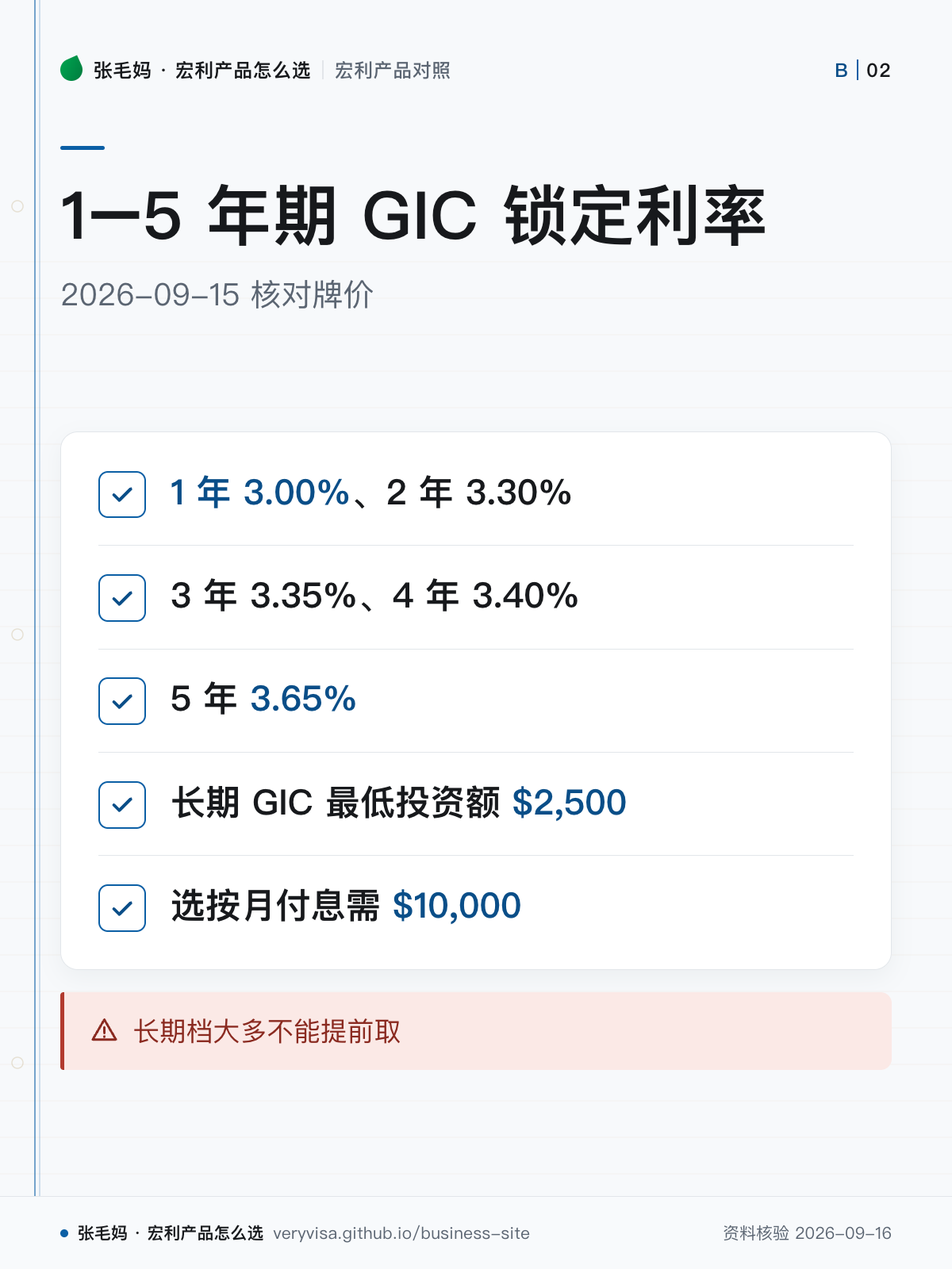
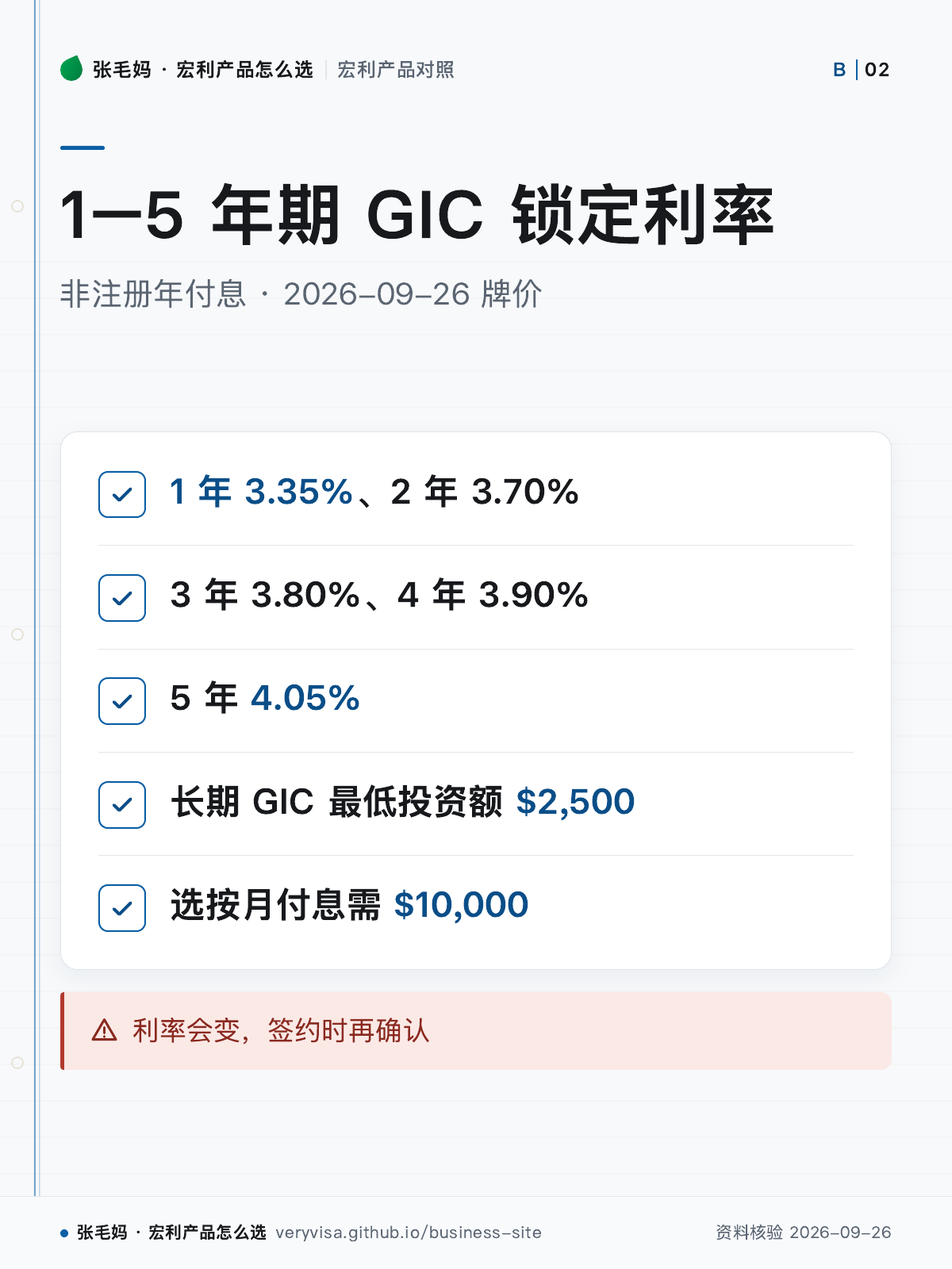
Publish gated reader experience update

diff --git a/cards/index.html b/cards/index.html
@@ -33,7 +33,7 @@
 <ul class="kcards-toc"><li><a href="#g-index-html">先分清用途，再比较产品</a></li><li><a href="#g-products-manulife-advantage-account-html">宏利银行活期王 Advantage Account</a></li><li><a href="#g-products-manulife-gic-html">宏利银行 GIC 定期存款</a></li><li><a href="#g-products-manulife-one-html">Manulife One 一体化房贷账户</a></li><li><a href="#g-products-manulife-transfers-wire-html">宏利银行的转账、e-Transfer 与电汇</a></li><li><a href="#g-products-manulife-visa-cards-html">宏利 Visa Infinite 与 Visa Platinum 信用卡</a></li><li><a href="#g-products-manulife-term-life-html">宏利定期寿险 Family Term 与 CoverMe／FollowMe</a></li><li><a href="#g-products-manulife-critical-illness-html">宏利重疾险 Lifecheque 与 CoverMe CI</a></li><li><a href="#g-products-manulife-disability-html">宏利失能收入保障 PADI 与 Mortgage Disability</a></li><li><a href="#g-products-manulife-health-dental-html">宏利个人健康牙科险 Flexcare／FollowMe 与 PHSP</a></li><li><a href="#g-products-manulife-par-whole-life-html">宏利分红型终身寿险 Manulife Par</a></li><li><a href="#g-products-manulife-universal-life-html">宏利万能寿险 Manulife UL</a></li><li><a href="#g-products-manulife-vitality-html">宏利 Vitality 健康互动计划 Go 与 Plus</a></li><li><a href="#g-compare-cash-advantage-vs-gic-html">活钱放活期王还是锁 GIC</a></li><li><a href="#g-compare-manulife-one-vs-advantage-html">一体化房贷账户 vs 高息活期账户</a></li><li><a href="#g-compare-move-and-spend-money-html">钱怎么进来、怎么花出去</a></li><li><a href="#g-compare-gic-vs-gia-html">银行 GIC 还是保险公司 GIA</a></li><li><a href="#g-tax-interest-income-and-t5-html">利息收入与 T5：什么时候要报、什么时候收不到单</a></li><li><a href="#g-tax-borrowing-interest-deductible-html">借来的钱，利息能不能抵税</a></li><li><a href="#g-tax-life-insurance-money-and-tax-html">寿险的钱在税上怎么走</a></li><li><a href="#g-tax-probate-by-province-html">遗产认证费用：各省差多少</a></li><li><a href="#g-tax-registered-accounts-at-death-html">注册账户在身故时怎么处理</a></li><li><a href="#g-tax-corporate-owned-life-insurance-html">公司持有寿险与资本红利账户 CDA</a></li><li><a href="#g-tax-charitable-giving-and-insurance-html">慈善捐赠与保险：怎么捐、什么时候捐</a></li></ul>
 <div id="g-index-html"><section class="kcards" aria-label="先分清用途，再比较产品"><h2>先分清用途，再比较产品</h2><div class="kcards-grid"><figure class="kcard" id="card-home-a" data-key="home-a" data-title="把产品放在一起看" data-sub="" data-full="../img/cards/home-a.png" data-detail="../cards/home-a/index.html" data-page="../index.html" data-page-title="宏利产品怎么选（首页）"><a class="kcard-pic" href="../cards/home-a/index.html" aria-label="放大看：把产品放在一起看"><img src="../img/cards/home-a.t.jpg" alt="把产品放在一起看；先弄清楚什么；这个产品本身是什么、条款怎么写；按产品；同一笔钱放在不同机构、不同产品里；按对比；钱进来、放着、拿出去、传下去；按税务问题" width="600" height="800" loading="eager" decoding="async"><span class="zoom" aria-hidden="true">放大 ⤢</span></a><figcaption><b class="takeaway">问产品看条款，问同类看差别，问钱进出看税务。</b><ul class="guide"><li><span>先看</span>先看自己当前问的是产品本身、同类差别，还是钱进出时的税务问题。</li><li><span>易漏</span>三条线回答的是不同问题；具体产品还要回到对应页面看条款和官方出处。</li><li><span>下一步</span>去按产品、按对比或按税务问题，带具体问题找经纪。</li></ul><a class="kcard-more" href="../cards/home-a/index.html">详情与分享 →</a></figcaption></figure><figure class="kcard" id="card-home-b" data-key="home-b" data-title="数字先对日期，问题直接问" data-sub="税务部分只讲后果与该问谁" data-full="../img/cards/home-b.png" data-detail="../cards/home-b/index.html" data-page="../index.html" data-page-title="宏利产品怎么选（首页）"><a class="kcard-pic" href="../cards/home-b/index.html" aria-label="放大看：数字先对日期，问题直接问"><img src="../img/cards/home-b.t.jpg" alt="数字先对日期，问题直接问；税务部分只讲后果与该问谁；事实来源表；「与经纪聊什么」；个案怎么安排；得回到主管机构原文和持牌专业意见" width="600" height="800" loading="eager" decoding="async"><span class="zoom" aria-hidden="true">放大 ⤢</span></a><figcaption><b class="takeaway">数字先对日期，个案回到持牌专业意见。</b><ul class="guide"><li><span>先看</span>先看「事实来源表」，数字出现时先对一眼日期。</li><li><span>易漏</span>利率、额度、费用会变，看到数字先对一眼日期。</li><li><span>下一步</span>去按产品、按对比、按税务问题，带具体问题去找经纪。</li></ul><a class="kcard-more" href="../cards/home-b/index.html">详情与分享 →</a></figcaption></figure></div></section><p class="small"><a href="../index.html">→ 去这一页读正文</a></p></div>
 <div id="g-products-manulife-advantage-account-html"><section class="kcards" aria-label="宏利银行活期王 Advantage Account"><h2>宏利银行活期王 Advantage Account</h2><div class="kcards-grid"><figure class="kcard" id="card-manulife-advantage-account-a" data-key="manulife-advantage-account-a" data-title="促销利率为 3.00%" data-sub="由常规 1.50% 加促销 1.50% 构成" data-full="../img/cards/manulife-advantage-account-a.png" data-detail="../cards/manulife-advantage-account-a/index.html" data-page="../products/manulife-advantage-account.html" data-page-title="宏利银行活期王 Advantage Account"><a class="kcard-pic" href="../cards/manulife-advantage-account-a/index.html" aria-label="放大看：促销利率为 3.00%"><img src="../img/cards/manulife-advantage-account-a.t.jpg" alt="促销利率为 3.00%；由常规 1.50% 加促销 1.50% 构成；两者都是浮动利率；从开户当日起算 730 天；只对净新增外部资金有效；合资格余额上限 $500,000；促销开户窗口；余额 ≥$1,000 时；余额 &lt;$1,000 时；官方注明利率与优惠为 2026-09-09 口径" width="600" height="800" loading="eager" decoding="async"><span class="zoom" aria-hidden="true">放大 ⤢</span></a><figcaption><b class="takeaway">3.00% 是浮动促销利率，并有期限、资金与余额条件。</b><ul class="guide"><li><span>先看</span>先看促销利率旁边的期限、净新增资金和余额上限，再看日常交易门槛。</li><li><span>易漏</span>「净新增」的完整定义以官方条款 PDF 为准；提款会相应减少合资格存款余额。</li><li><span>下一步</span>去按产品，带「净新增」和余额门槛问题找经纪。</li></ul><a class="kcard-more" href="../cards/manulife-advantage-account-a/index.html">详情与分享 →</a></figcaption></figure><figure class="kcard" id="card-manulife-advantage-account-b" data-key="manulife-advantage-account-b" data-title="利息收入仍须申报" data-sub="" data-full="../img/cards/manulife-advantage-account-b.png" data-detail="../cards/manulife-advantage-account-b/index.html" data-page="../products/manulife-advantage-account.html" data-page-title="宏利银行活期王 Advantage Account"><a class="kcard-pic" href="../cards/manulife-advantage-account-b/index.html" aria-label="放大看：利息收入仍须申报"><img src="../img/cards/manulife-advantage-account-b.t.jpg" alt="利息收入仍须申报；利息按当年支付或记入的金额；不到 $50 可能收不到 T5；取回本金、在本人账户之间转账；「锁定两年 3%」——错；「$1,000 是开户门槛」——错；「余额过 $1,000，境外 ATM 也免费」；以主管机构原文与持牌意见为准" width="600" height="800" loading="eager" decoding="async"><span class="zoom" aria-hidden="true">放大 ⤢</span></a><figcaption><b class="takeaway">利息须申报；本金与本人账户转账本身不是新的收入。</b><ul class="guide"><li><span>先看</span>先分清利息与取回本金、本人账户转账，再看利率和费用相关误区。</li><li><span>易漏</span>变成非居民后，新居住国可能征税；联名账户还要按省法和家庭情况问 estate 律师。</li><li><span>下一步</span>去按税务问题，带申报、非居民和联名账户问题找持牌专业人士。</li></ul><a class="kcard-more" href="../cards/manulife-advantage-account-b/index.html">详情与分享 →</a></figcaption></figure></div></section><p class="small"><a href="../products/manulife-advantage-account.html">→ 去这一页读正文</a></p></div>
-<div id="g-products-manulife-gic-html"><section class="kcards" aria-label="宏利银行 GIC 定期存款"><h2>宏利银行 GIC 定期存款</h2><div class="kcards-grid"><figure class="kcard" id="card-manulife-gic-a" data-key="manulife-gic-a" data-title="1–5 年期 GIC 锁定利率" data-sub="2026-09-15 核对牌价" data-full="../img/cards/manulife-gic-a.png" data-detail="../cards/manulife-gic-a/index.html" data-page="../products/manulife-gic.html" data-page-title="宏利银行 GIC 定期存款"><a class="kcard-pic" href="../cards/manulife-gic-a/index.html" aria-label="放大看：1–5 年期 GIC 锁定利率"><img src="../img/cards/manulife-gic-a.t.jpg" alt="1–5 年期 GIC 锁定利率；2026-09-15 核对牌价；1 年 3.00%、2 年 3.30%；3 年 3.35%、4 年 3.40%；5 年 3.65%；长期 GIC 最低投资额 $2,500；选按月付息需 $10,000；长期档大多不能提前取" width="600" height="800" loading="eager" decoding="async"><span class="zoom" aria-hidden="true">放大 ⤢</span></a><figcaption><b class="takeaway">长期 GIC 先定期限，再看最低投资额与牌价。</b><ul class="guide"><li><span>先看</span>先看最低投资额，再看要锁的期限和对应牌价。</li><li><span>易漏</span>TFSA 内长期 GIC 可以提前赎回，但要做市场价值调整（MVA）并扣费用回收，且须全额赎回。</li><li><span>下一步</span>去按对比，带期限和是否要提前赎回的问题找持牌专业人士。</li></ul><a class="kcard-more" href="../cards/manulife-gic-a/index.html">详情与分享 →</a></figcaption></figure><figure class="kcard" id="card-manulife-gic-b" data-key="manulife-gic-b" data-title="非注册多年期要逐年报告" data-sub="GIC 是投资品种，不是税务外壳" data-full="../img/cards/manulife-gic-b.png" data-detail="../cards/manulife-gic-b/index.html" data-page="../products/manulife-gic.html" data-page-title="宏利银行 GIC 定期存款"><a class="kcard-pic" href="../cards/manulife-gic-b/index.html" aria-label="放大看：非注册多年期要逐年报告"><img src="../img/cards/manulife-gic-b.t.jpg" alt="非注册多年期要逐年报告；GIC 是投资品种，不是税务外壳；非注册多年期 GIC 的利息要按年报告；利息不到 $50 可能收不到 T5；「短期 GIC 随时免费取」；以主管机构原文与持牌意见为准，本文不对任何个案下结论。" width="600" height="800" loading="eager" decoding="async"><span class="zoom" aria-hidden="true">放大 ⤢</span></a><figcaption><b class="takeaway">GIC 的税务结果完全跟外壳走。</b><ul class="guide"><li><span>先看</span>先看非注册多年期利息如何申报，再看有没有收到 T5。</li><li><span>易漏</span>注册账户内的 GIC 取出时按 TFSA／RRSP／RRIF 的规则处理；到期取回本金本身不是新的收入。</li><li><span>下一步</span>去按税务问题，带着账户外壳与取款情形找持牌专业人士。</li></ul><a class="kcard-more" href="../cards/manulife-gic-b/index.html">详情与分享 →</a></figcaption></figure></div></section><p class="small"><a href="../products/manulife-gic.html">→ 去这一页读正文</a></p></div>
+<div id="g-products-manulife-gic-html"><section class="kcards" aria-label="宏利银行 GIC 定期存款"><h2>宏利银行 GIC 定期存款</h2><div class="kcards-grid"><figure class="kcard" id="card-manulife-gic-a" data-key="manulife-gic-a" data-title="1–5 年期 GIC 锁定利率" data-sub="非注册年付息 · 2026-09-26 牌价" data-full="../img/cards/manulife-gic-a.png" data-detail="../cards/manulife-gic-a/index.html" data-page="../products/manulife-gic.html" data-page-title="宏利银行 GIC 定期存款"><a class="kcard-pic" href="../cards/manulife-gic-a/index.html" aria-label="放大看：1–5 年期 GIC 锁定利率"><img src="../img/cards/manulife-gic-a.t.jpg" alt="1–5 年期 GIC 锁定利率；非注册年付息 · 2026-09-26 牌价；1 年 3.35%、2 年 3.70%；3 年 3.80%、4 年 3.90%；5 年 4.05%；长期 GIC 最低投资额 $2,500；选按月付息需 $10,000；利率会变，签约时再确认" width="600" height="800" loading="eager" decoding="async"><span class="zoom" aria-hidden="true">放大 ⤢</span></a><figcaption><b class="takeaway">长期 GIC 先定期限，再看最低投资额与牌价。</b><ul class="guide"><li><span>先看</span>先看最低投资额，再看要锁的期限和对应牌价。</li><li><span>易漏</span>TFSA 内长期 GIC 可以提前赎回，但要做市场价值调整（MVA）并扣费用回收，且须全额赎回。</li><li><span>下一步</span>去按对比，带期限和是否要提前赎回的问题找持牌专业人士。</li></ul><a class="kcard-more" href="../cards/manulife-gic-a/index.html">详情与分享 →</a></figcaption></figure><figure class="kcard" id="card-manulife-gic-b" data-key="manulife-gic-b" data-title="非注册多年期要逐年报告" data-sub="GIC 是投资品种，不是税务外壳" data-full="../img/cards/manulife-gic-b.png" data-detail="../cards/manulife-gic-b/index.html" data-page="../products/manulife-gic.html" data-page-title="宏利银行 GIC 定期存款"><a class="kcard-pic" href="../cards/manulife-gic-b/index.html" aria-label="放大看：非注册多年期要逐年报告"><img src="../img/cards/manulife-gic-b.t.jpg" alt="非注册多年期要逐年报告；GIC 是投资品种，不是税务外壳；非注册多年期 GIC 的利息要按年报告；利息不到 $50 可能收不到 T5；「短期 GIC 随时免费取」；以主管机构原文与持牌意见为准，本文不对任何个案下结论。" width="600" height="800" loading="eager" decoding="async"><span class="zoom" aria-hidden="true">放大 ⤢</span></a><figcaption><b class="takeaway">GIC 的税务结果完全跟外壳走。</b><ul class="guide"><li><span>先看</span>先看非注册多年期利息如何申报，再看有没有收到 T5。</li><li><span>易漏</span>注册账户内的 GIC 取出时按 TFSA／RRSP／RRIF 的规则处理；到期取回本金本身不是新的收入。</li><li><span>下一步</span>去按税务问题，带着账户外壳与取款情形找持牌专业人士。</li></ul><a class="kcard-more" href="../cards/manulife-gic-b/index.html">详情与分享 →</a></figcaption></figure></div></section><p class="small"><a href="../products/manulife-gic.html">→ 去这一页读正文</a></p></div>
 <div id="g-products-manulife-one-html"><section class="kcards" aria-label="Manulife One 一体化房贷账户"><h2>Manulife One 一体化房贷账户</h2><div class="kcards-grid"><figure class="kcard" id="card-manulife-one-a" data-key="manulife-one-a" data-title="每一笔收入或储蓄立即冲减债务" data-sub="" data-full="../img/cards/manulife-one-a.png" data-detail="../cards/manulife-one-a/index.html" data-page="../products/manulife-one.html" data-page-title="Manulife One 一体化房贷账户"><a class="kcard-pic" href="../cards/manulife-one-a/index.html" aria-label="放大看：每一笔收入或储蓄立即冲减债务"><img src="../img/cards/manulife-one-a.t.jpg" alt="每一笔收入或储蓄立即冲减债务；购房首付不少于房价 20%；可循环使用的主账户额度上限；65%–80% 之间的借款；最多可开 5 个定期子账户" width="600" height="800" loading="eager" decoding="async"><span class="zoom" aria-hidden="true">放大 ⤢</span></a><figcaption><b class="takeaway">月末全账户正余额合计 $5,000 或以上免收。</b><ul class="guide"><li><span>先看</span>先看准入门槛，再看主账户与定期子账户怎样分层。</li><li><span>易漏</span>追踪子账户可单独记录投资相关借款利息，但利息能否抵税取决于所得税法与个案。</li><li><span>下一步</span>去按产品，带着房屋用途、首付或房屋净值找持牌专业人士。</li></ul><a class="kcard-more" href="../cards/manulife-one-a/index.html">详情与分享 →</a></figcaption></figure><figure class="kcard" id="card-manulife-one-b" data-key="manulife-one-b" data-title="利息能不能抵税看用途" data-sub="纳税人负责把借款追踪到具体的合资格用途" data-full="../img/cards/manulife-one-b.png" data-detail="../cards/manulife-one-b/index.html" data-page="../products/manulife-one.html" data-page-title="Manulife One 一体化房贷账户"><a class="kcard-pic" href="../cards/manulife-one-b/index.html" aria-label="放大看：利息能不能抵税看用途"><img src="../img/cards/manulife-one-b.t.jpg" alt="利息能不能抵税看用途；纳税人负责把借款追踪到具体的合资格用途；常见误区；原文；抵税；身故；居民身份；以主管机构原文与持牌意见为准，本文不对任何个案下结论。" width="600" height="800" loading="eager" decoding="async"><span class="zoom" aria-hidden="true">放大 ⤢</span></a><figcaption><b class="takeaway">利息能不能抵税看借来的钱当前的用途</b><ul class="guide"><li><span>先看</span>先看「抵税」这一行：账户形式不是判断起点，用途与追踪才是。</li><li><span>易漏</span>个人用途和投资用途混在同一个借款账户时，还本金会按比例减少两部分，不能指定只还个人部分。</li><li><span>下一步</span>去按税务问题核对场景，带资金用途与账户记录找持牌专业人士。</li></ul><a class="kcard-more" href="../cards/manulife-one-b/index.html">详情与分享 →</a></figcaption></figure></div></section><p class="small"><a href="../products/manulife-one.html">→ 去这一页读正文</a></p></div>
 <div id="g-products-manulife-transfers-wire-html"><section class="kcards" aria-label="宏利银行的转账、e-Transfer 与电汇"><h2>宏利银行的转账、e-Transfer 与电汇</h2><div class="kcards-grid"><figure class="kcard" id="card-manulife-transfers-wire-a" data-key="manulife-transfers-wire-a" data-title="外部行账户的转账不能即时执行" data-sub="" data-full="../img/cards/manulife-transfers-wire-a.png" data-detail="../cards/manulife-transfers-wire-a/index.html" data-page="../products/manulife-transfers-wire.html" data-page-title="宏利银行的转账、e-Transfer 与电汇"><a class="kcard-pic" href="../cards/manulife-transfers-wire-a/index.html" aria-label="放大看：外部行账户的转账不能即时执行"><img src="../img/cards/manulife-transfers-wire-a.t.jpg" alt="外部行账户的转账不能即时执行；关联成功后；Outgoing transfers；至少排到一个工作日之后；Advantage Account；费用指南 2026-03-12 生效版" width="600" height="800" loading="eager" decoding="async"><span class="zoom" aria-hidden="true">放大 ⤢</span></a><figcaption><b class="takeaway">本人名下其他加拿大银行的账户可以关联进来双向免费调钱</b><ul class="guide"><li><span>先看</span>先看非即时和默认每日限额：这两项最容易影响大额调钱安排。</li><li><span>易漏</span>支票或 EFT 从其他加拿大银行存入后仍可能被冻结；开户不满 90 天等情形可能更长。</li><li><span>下一步</span>去按产品核对转账方式，带金额与时间要求找持牌专业人士。</li></ul><a class="kcard-more" href="../cards/manulife-transfers-wire-a/index.html">详情与分享 →</a></figcaption></figure><figure class="kcard" id="card-manulife-transfers-wire-b" data-key="manulife-transfers-wire-b" data-title="搬钱本身不是收入事件" data-sub="真正要报税的是各账户里产生的利息" data-full="../img/cards/manulife-transfers-wire-b.png" data-detail="../cards/manulife-transfers-wire-b/index.html" data-page="../products/manulife-transfers-wire.html" data-page-title="宏利银行的转账、e-Transfer 与电汇"><a class="kcard-pic" href="../cards/manulife-transfers-wire-b/index.html" aria-label="放大看：搬钱本身不是收入事件"><img src="../img/cards/manulife-transfers-wire-b.t.jpg" alt="搬钱本身不是收入事件；真正要报税的是各账户里产生的利息；常见误区；原文；Outgoing transfers；汇入 Wire；线上提交 Wire；以主管机构原文与持牌意见为准，本文不对任何个案下结论。" width="600" height="800" loading="eager" decoding="async"><span class="zoom" aria-hidden="true">放大 ⤢</span></a><figcaption><b class="takeaway">本人名下不同银行账户之间搬钱，本身不是收入事件</b><ul class="guide"><li><span>先看</span>先看三行误区各自对应的限制：限额、收费和到账时间不是一回事。</li><li><span>易漏</span>公司账户转到股东个人账户不能当普通银行转账看；跨境申报还要按个人居民身份另查。</li><li><span>下一步</span>去按税务问题核对资金性质，带账户来源与去向找持牌专业人士。</li></ul><a class="kcard-more" href="../cards/manulife-transfers-wire-b/index.html">详情与分享 →</a></figcaption></figure></div></section><p class="small"><a href="../products/manulife-transfers-wire.html">→ 去这一页读正文</a></p></div>
 <div id="g-products-manulife-visa-cards-html"><section class="kcards" aria-label="宏利 Visa Infinite 与 Visa Platinum 信用卡"><h2>宏利 Visa Infinite 与 Visa Platinum 信用卡</h2><div class="kcards-grid"><figure class="kcard" id="card-manulife-visa-cards-a" data-key="manulife-visa-cards-a" data-title="两张卡返现、年费与利率" data-sub="健康消费专用卡" data-full="../img/cards/manulife-visa-cards-a.png" data-detail="../cards/manulife-visa-cards-a/index.html" data-page="../products/manulife-visa-cards.html" data-page-title="宏利 Visa Infinite 与 Visa Platinum 信用卡"><a class="kcard-pic" href="../cards/manulife-visa-cards-a/index.html" aria-label="放大看：两张卡返现、年费与利率"><img src="../img/cards/manulife-visa-cards-a.t.jpg" alt="两张卡返现、年费与利率；健康消费专用卡；Visa Infinite；Visa Platinum；加速类别返现；两个加速类别；年费；两张卡购物利率 21.99%、预借现金利率 22.99%。" width="600" height="800" loading="eager" decoding="async"><span class="zoom" aria-hidden="true">放大 ⤢</span></a><figcaption><b class="takeaway">两张卡的返现、加速类别消费额度与年费不同。</b><ul class="guide"><li><span>先看</span>先看加速类别的适用额度，再看年费，不要只看返现数字。</li><li><span>易漏</span>哪笔消费算「健康类」等加速类别，按 Visa 对商户的分类并由 Manulife Bank 认定。</li><li><span>下一步</span>去按产品，带着消费类别、年费与利率问题找持牌专业人士。</li></ul><a class="kcard-more" href="../cards/manulife-visa-cards-a/index.html">详情与分享 →</a></figcaption></figure><figure class="kcard" id="card-manulife-visa-cards-b" data-key="manulife-visa-cards-b" data-title="个人信用卡返现一般按消费折扣看待" data-sub="以主管机构原文与持牌意见为准" data-full="../img/cards/manulife-visa-cards-b.png" data-detail="../cards/manulife-visa-cards-b/index.html" data-page="../products/manulife-visa-cards.html" data-page-title="宏利 Visa Infinite 与 Visa Platinum 信用卡"><a class="kcard-pic" href="../cards/manulife-visa-cards-b/index.html" aria-label="放大看：个人信用卡返现一般按消费折扣看待"><img src="../img/cards/manulife-visa-cards-b.t.jpg" alt="个人信用卡返现一般按消费折扣看待；以主管机构原文与持牌意见为准；用于经营的消费；「一定拿 2%」——错；「第二年也免年费」——错；「1.99% 余额转移」；本文不对任何个案下结论" width="600" height="800" loading="eager" decoding="async"><span class="zoom" aria-hidden="true">放大 ⤢</span></a><figcaption><b class="takeaway">抵税看消费本身用途，与刷哪张卡无关。</b><ul class="guide"><li><span>先看</span>先分清税务后果和常见误区，再看哪些条件会改变结果。</li><li><span>易漏</span>若是公司卡或报销消费，返现归属与记账方式问会计师。</li><li><span>下一步</span>去按税务问题，再带个案问题找持牌专业人士。</li></ul><a class="kcard-more" href="../cards/manulife-visa-cards-b/index.html">详情与分享 →</a></figcaption></figure></div></section><p class="small"><a href="../products/manulife-visa-cards.html">→ 去这一页读正文</a></p></div>

diff --git a/products/manulife-gic.html b/products/manulife-gic.html
@@ -37,10 +37,10 @@
 <p>Manulife Bank GIC 是银行定期存款：1–5 年期锁定利率、长期档大多不能提前取、受 CDIC 按类别保护；它和 Manulife 人寿发行的 GIA 不是同一种东西。</p>
 <h2>事实清单</h2>
 <ul>
-<li>非注册长期 GIC 年付息利率：1 年 3.00%、2 年 3.30%、3 年 3.35%、4 年 3.40%、5 年 3.65%（2026-09-15 核对牌价）。<a href="https://www.manulifebank.ca/current-rates.html">✅源</a></li>
+<li>非注册长期 GIC 年付息利率：1 年 3.35%、2 年 3.70%、3 年 3.80%、4 年 3.90%、5 年 4.05%（2026-09-26 核对牌价；利率可变更，签约时再确认）。<a href="https://www.manulifebank.ca/current-rates.html">✅源</a></li>
 <li>TFSA／RRSP／RRIF 长期 GIC 与非注册同档利率一致。<a href="https://www.manulifebank.ca/current-rates.html">✅源</a></li>
 <li>长期 GIC 最低投资额 $2,500，选按月付息需 $10,000。<a href="https://www.manulifebank.ca/current-rates.html">✅源</a></li>
-<li>短期 GIC 利率：30–59 天与 60–89 天 1.75%、90–179 天 1.90%、180–269 天 2.38%、270–364 天 2.50%。<a href="https://www.manulifebank.ca/personal-banking/investments/guaranteed-investment-certificate.html">✅源</a></li>
+<li>短期 GIC 利率：30–59 天与 60–89 天 1.75%、90–179 天 1.90%、180–269 天 2.45%、270–364 天 2.50%（2026-09-26 核对；以签约时利率为准）。<a href="https://www.manulifebank.ca/current-rates.html">✅源</a></li>
 <li>短期 GIC 最低投资额 $25,000。<a href="https://www.manulifebank.ca/personal-banking/investments/guaranteed-investment-certificate.html">✅源</a></li>
 <li>非注册、RRSP、RRIF 长期 GIC 为不可提前赎回，身故是到期前赎回的例外。<a href="https://www.manulifebank.ca/personal-banking/investments/guaranteed-investment-certificate.html">✅源</a></li>
 <li>TFSA 内长期 GIC 可以提前赎回，但要做市场价值调整（MVA）并扣费用回收，且须全额赎回。<a href="https://www.manulifebank.ca/personal-banking/investments/tax-free-savings-account.html">✅源</a></li>
@@ -64,10 +64,10 @@
 <tbody>
 <tr>
 <td>Manulife Bank</td>
-<td>1 年 3.00%／5 年 3.65% <a href="https://www.manulifebank.ca/current-rates.html">✅源</a></td>
+<td>1 年 3.35%／5 年 4.05% <a href="https://www.manulifebank.ca/current-rates.html">✅源</a></td>
 <td>长期档不可赎（TFSA 例外，有 MVA）<a href="https://www.manulifebank.ca/personal-banking/investments/guaranteed-investment-certificate.html">✅源</a></td>
 <td>长期 $2,500；短期 $25,000 <a href="https://www.manulifebank.ca/personal-banking/investments/guaranteed-investment-certificate.html">✅源</a></td>
-<td>2026-09-15 <a href="https://www.manulifebank.ca/current-rates.html">✅源</a></td>
+<td>牌价 2026-09-26；其余条款 2026-09-15 <a href="https://www.manulifebank.ca/current-rates.html">✅源</a></td>
 </tr>
 <tr>
 <td>BMO</td>
@@ -118,7 +118,7 @@
 <li>早期整理稿把长期 GIC 写成「年复利口径」，核实报告写的是年付息牌价；复利与付息方式以官方页为准。<a href="https://www.manulifebank.ca/current-rates.html">✅源</a></li>
 <li>「银行 GIC 能指定受益人、避开遗产程序」——不能当普遍结论：注册账户里的 GIC 跟账户的指定走，非注册 GIC 跟所有权与遗产走。<a href="https://www.manulifebank.ca/documents/general/manulife-bank-beneficiary-and-successor-holder-annuitant-designation-ab0805e.pdf">✅源</a></li>
 </ul>
-<section class="kcards" aria-label="知识卡"><h2>知识卡</h2><p class="kcards-lead">不看正文也能拿到这一页的核心规则：先看导读，再看图。点图放大，左右翻页。</p><div class="kcards-grid"><figure class="kcard" id="card-manulife-gic-a" data-key="manulife-gic-a" data-title="1–5 年期 GIC 锁定利率" data-sub="2026-09-15 核对牌价" data-full="../img/cards/manulife-gic-a.png" data-detail="../cards/manulife-gic-a/index.html" data-page="../products/manulife-gic.html" data-page-title="宏利银行 GIC 定期存款"><a class="kcard-pic" href="../cards/manulife-gic-a/index.html" aria-label="放大看：1–5 年期 GIC 锁定利率"><img src="../img/cards/manulife-gic-a.t.jpg" alt="1–5 年期 GIC 锁定利率；2026-09-15 核对牌价；1 年 3.00%、2 年 3.30%；3 年 3.35%、4 年 3.40%；5 年 3.65%；长期 GIC 最低投资额 $2,500；选按月付息需 $10,000；长期档大多不能提前取" width="600" height="800" loading="eager" decoding="async"><span class="zoom" aria-hidden="true">放大 ⤢</span></a><figcaption><b class="takeaway">长期 GIC 先定期限，再看最低投资额与牌价。</b><ul class="guide"><li><span>先看</span>先看最低投资额，再看要锁的期限和对应牌价。</li><li><span>易漏</span>TFSA 内长期 GIC 可以提前赎回，但要做市场价值调整（MVA）并扣费用回收，且须全额赎回。</li><li><span>下一步</span>去按对比，带期限和是否要提前赎回的问题找持牌专业人士。</li></ul><a class="kcard-more" href="../cards/manulife-gic-a/index.html">详情与分享 →</a></figcaption></figure><figure class="kcard" id="card-manulife-gic-b" data-key="manulife-gic-b" data-title="非注册多年期要逐年报告" data-sub="GIC 是投资品种，不是税务外壳" data-full="../img/cards/manulife-gic-b.png" data-detail="../cards/manulife-gic-b/index.html" data-page="../products/manulife-gic.html" data-page-title="宏利银行 GIC 定期存款"><a class="kcard-pic" href="../cards/manulife-gic-b/index.html" aria-label="放大看：非注册多年期要逐年报告"><img src="../img/cards/manulife-gic-b.t.jpg" alt="非注册多年期要逐年报告；GIC 是投资品种，不是税务外壳；非注册多年期 GIC 的利息要按年报告；利息不到 $50 可能收不到 T5；「短期 GIC 随时免费取」；以主管机构原文与持牌意见为准，本文不对任何个案下结论。" width="600" height="800" loading="eager" decoding="async"><span class="zoom" aria-hidden="true">放大 ⤢</span></a><figcaption><b class="takeaway">GIC 的税务结果完全跟外壳走。</b><ul class="guide"><li><span>先看</span>先看非注册多年期利息如何申报，再看有没有收到 T5。</li><li><span>易漏</span>注册账户内的 GIC 取出时按 TFSA／RRSP／RRIF 的规则处理；到期取回本金本身不是新的收入。</li><li><span>下一步</span>去按税务问题，带着账户外壳与取款情形找持牌专业人士。</li></ul><a class="kcard-more" href="../cards/manulife-gic-b/index.html">详情与分享 →</a></figcaption></figure></div></section>
+<section class="kcards" aria-label="知识卡"><h2>知识卡</h2><p class="kcards-lead">不看正文也能拿到这一页的核心规则：先看导读，再看图。点图放大，左右翻页。</p><div class="kcards-grid"><figure class="kcard" id="card-manulife-gic-a" data-key="manulife-gic-a" data-title="1–5 年期 GIC 锁定利率" data-sub="非注册年付息 · 2026-09-26 牌价" data-full="../img/cards/manulife-gic-a.png" data-detail="../cards/manulife-gic-a/index.html" data-page="../products/manulife-gic.html" data-page-title="宏利银行 GIC 定期存款"><a class="kcard-pic" href="../cards/manulife-gic-a/index.html" aria-label="放大看：1–5 年期 GIC 锁定利率"><img src="../img/cards/manulife-gic-a.t.jpg" alt="1–5 年期 GIC 锁定利率；非注册年付息 · 2026-09-26 牌价；1 年 3.35%、2 年 3.70%；3 年 3.80%、4 年 3.90%；5 年 4.05%；长期 GIC 最低投资额 $2,500；选按月付息需 $10,000；利率会变，签约时再确认" width="600" height="800" loading="eager" decoding="async"><span class="zoom" aria-hidden="true">放大 ⤢</span></a><figcaption><b class="takeaway">长期 GIC 先定期限，再看最低投资额与牌价。</b><ul class="guide"><li><span>先看</span>先看最低投资额，再看要锁的期限和对应牌价。</li><li><span>易漏</span>TFSA 内长期 GIC 可以提前赎回，但要做市场价值调整（MVA）并扣费用回收，且须全额赎回。</li><li><span>下一步</span>去按对比，带期限和是否要提前赎回的问题找持牌专业人士。</li></ul><a class="kcard-more" href="../cards/manulife-gic-a/index.html">详情与分享 →</a></figcaption></figure><figure class="kcard" id="card-manulife-gic-b" data-key="manulife-gic-b" data-title="非注册多年期要逐年报告" data-sub="GIC 是投资品种，不是税务外壳" data-full="../img/cards/manulife-gic-b.png" data-detail="../cards/manulife-gic-b/index.html" data-page="../products/manulife-gic.html" data-page-title="宏利银行 GIC 定期存款"><a class="kcard-pic" href="../cards/manulife-gic-b/index.html" aria-label="放大看：非注册多年期要逐年报告"><img src="../img/cards/manulife-gic-b.t.jpg" alt="非注册多年期要逐年报告；GIC 是投资品种，不是税务外壳；非注册多年期 GIC 的利息要按年报告；利息不到 $50 可能收不到 T5；「短期 GIC 随时免费取」；以主管机构原文与持牌意见为准，本文不对任何个案下结论。" width="600" height="800" loading="eager" decoding="async"><span class="zoom" aria-hidden="true">放大 ⤢</span></a><figcaption><b class="takeaway">GIC 的税务结果完全跟外壳走。</b><ul class="guide"><li><span>先看</span>先看非注册多年期利息如何申报，再看有没有收到 T5。</li><li><span>易漏</span>注册账户内的 GIC 取出时按 TFSA／RRSP／RRIF 的规则处理；到期取回本金本身不是新的收入。</li><li><span>下一步</span>去按税务问题，带着账户外壳与取款情形找持牌专业人士。</li></ul><a class="kcard-more" href="../cards/manulife-gic-b/index.html">详情与分享 →</a></figcaption></figure></div></section>
 <section class="pagefoot">
 <h2>事实来源</h2>
 <div class="tbl"><table class="sources"><thead><tr><th>官方原文</th><th>核对日期</th></tr></thead><tbody><tr><td><a href="https://www.manulifebank.ca/personal-banking/investments/guaranteed-investment-certificate.html" rel="nofollow noopener">https://www.manulifebank.ca/personal-banking/investments/guaranteed-investment-certificate.html</a></td><td>2026-09-15</td></tr><tr><td><a href="https://www.manulifebank.ca/current-rates.html" rel="nofollow noopener">https://www.manulifebank.ca/current-rates.html</a></td><td>2026-09-15</td></tr><tr><td><a href="https://www.manulifebank.ca/support/about-us/cdic-information.html" rel="nofollow noopener">https://www.manulifebank.ca/support/about-us/cdic-information.html</a></td><td>2026-09-15</td></tr><tr><td><a href="https://www.cdic.ca/depositors/whats-covered/guaranteed-investment-certificates-gics/" rel="nofollow noopener">https://www.cdic.ca/depositors/whats-covered/guaranteed-investment-certificates-gics/</a></td><td>2026-09-15</td></tr></tbody></table></div>

diff --git a/sw.js b/sw.js
@@ -1,6 +1,6 @@
 /* 宏利产品怎么选 · 张毛妈 · 离线缓存。版本＝内容哈希，新发布自动汰旧。 */
 const CACHE_PREFIX = 'vv-business-';
-const VERSION = CACHE_PREFIX + '4eeb7bec6d3d';
+const VERSION = CACHE_PREFIX + '397557b4aea6';
 const PRECACHE = ["./.nojekyll", "./about.html", "./cards/borrowing-interest-deductible-a/index.html", "./cards/borrowing-interest-deductible-b/index.html", "./cards/cash-advantage-vs-gic-a/index.html", "./cards/cash-advantage-vs-gic-b/index.html", "./cards/charitable-giving-and-insurance-a/index.html", "./cards/charitable-giving-and-insurance-b/index.html", "./cards/corporate-owned-life-insurance-a/index.html", "./cards/corporate-owned-life-insurance-b/index.html", "./cards/gic-vs-gia-a/index.html", "./cards/gic-vs-gia-b/index.html", "./cards/home-a/index.html", "./cards/home-b/index.html", "./cards/index.html", "./cards/interest-income-and-t5-a/index.html", "./cards/interest-income-and-t5-b/index.html", "./cards/life-insurance-money-and-tax-a/index.html", "./cards/life-insurance-money-and-tax-b/index.html", "./cards/manulife-advantage-account-a/index.html", "./cards/manulife-advantage-account-b/index.html", "./cards/manulife-critical-illness-a/index.html", "./cards/manulife-critical-illness-b/index.html", "./cards/manulife-disability-a/index.html", "./cards/manulife-disability-b/index.html", "./cards/manulife-gic-a/index.html", "./cards/manulife-gic-b/index.html", "./cards/manulife-health-dental-a/index.html", "./cards/manulife-health-dental-b/index.html", "./cards/manulife-one-a/index.html", "./cards/manulife-one-b/index.html", "./cards/manulife-one-vs-advantage-a/index.html", "./cards/manulife-one-vs-advantage-b/index.html", "./cards/manulife-par-whole-life-a/index.html", "./cards/manulife-par-whole-life-b/index.html", "./cards/manulife-term-life-a/index.html", "./cards/manulife-term-life-b/index.html", "./cards/manulife-transfers-wire-a/index.html", "./cards/manulife-transfers-wire-b/index.html", "./cards/manulife-universal-life-a/index.html", "./cards/manulife-universal-life-b/index.html", "./cards/manulife-visa-cards-a/index.html", "./cards/manulife-visa-cards-b/index.html", "./cards/manulife-vitality-a/index.html", "./cards/manulife-vitality-b/index.html", "./cards/move-and-spend-money-a/index.html", "./cards/move-and-spend-money-b/index.html", "./cards/probate-by-province-a/index.html", "./cards/probate-by-province-b/index.html", "./cards/registered-accounts-at-death-a/index.html", "./cards/registered-accounts-at-death-b/index.html", "./compare/cash-advantage-vs-gic.html", "./compare/gic-vs-gia.html", "./compare/manulife-one-vs-advantage.html", "./compare/move-and-spend-money.html", "./img/cards/borrowing-interest-deductible-a.png", "./img/cards/borrowing-interest-deductible-a.t.jpg", "./img/cards/borrowing-interest-deductible-b.png", "./img/cards/borrowing-interest-deductible-b.t.jpg", "./img/cards/cash-advantage-vs-gic-a.png", "./img/cards/cash-advantage-vs-gic-a.t.jpg", "./img/cards/cash-advantage-vs-gic-b.png", "./img/cards/cash-advantage-vs-gic-b.t.jpg", "./img/cards/charitable-giving-and-insurance-a.png", "./img/cards/charitable-giving-and-insurance-a.t.jpg", "./img/cards/charitable-giving-and-insurance-b.png", "./img/cards/charitable-giving-and-insurance-b.t.jpg", "./img/cards/corporate-owned-life-insurance-a.png", "./img/cards/corporate-owned-life-insurance-a.t.jpg", "./img/cards/corporate-owned-life-insurance-b.png", "./img/cards/corporate-owned-life-insurance-b.t.jpg", "./img/cards/gic-vs-gia-a.png", "./img/cards/gic-vs-gia-a.t.jpg", "./img/cards/gic-vs-gia-b.png", "./img/cards/gic-vs-gia-b.t.jpg", "./img/cards/home-a.png", "./img/cards/home-a.t.jpg", "./img/cards/home-b.png", "./img/cards/home-b.t.jpg", "./img/cards/interest-income-and-t5-a.png", "./img/cards/interest-income-and-t5-a.t.jpg", "./img/cards/interest-income-and-t5-b.png", "./img/cards/interest-income-and-t5-b.t.jpg", "./img/cards/life-insurance-money-and-tax-a.png", "./img/cards/life-insurance-money-and-tax-a.t.jpg", "./img/cards/life-insurance-money-and-tax-b.png", "./img/cards/life-insurance-money-and-tax-b.t.jpg", "./img/cards/manulife-advantage-account-a.png", "./img/cards/manulife-advantage-account-a.t.jpg", "./img/cards/manulife-advantage-account-b.png", "./img/cards/manulife-advantage-account-b.t.jpg", "./img/cards/manulife-critical-illness-a.png", "./img/cards/manulife-critical-illness-a.t.jpg", "./img/cards/manulife-critical-illness-b.png", "./img/cards/manulife-critical-illness-b.t.jpg", "./img/cards/manulife-disability-a.png", "./img/cards/manulife-disability-a.t.jpg", "./img/cards/manulife-disability-b.png", "./img/cards/manulife-disability-b.t.jpg", "./img/cards/manulife-gic-a.png", "./img/cards/manulife-gic-a.t.jpg", "./img/cards/manulife-gic-b.png", "./img/cards/manulife-gic-b.t.jpg", "./img/cards/manulife-health-dental-a.png", "./img/cards/manulife-health-dental-a.t.jpg", "./img/cards/manulife-health-dental-b.png", "./img/cards/manulife-health-dental-b.t.jpg", "./img/cards/manulife-one-a.png", "./img/cards/manulife-one-a.t.jpg", "./img/cards/manulife-one-b.png", "./img/cards/manulife-one-b.t.jpg", "./img/cards/manulife-one-vs-advantage-a.png", "./img/cards/manulife-one-vs-advantage-a.t.jpg", "./img/cards/manulife-one-vs-advantage-b.png", "./img/cards/manulife-one-vs-advantage-b.t.jpg", "./img/cards/manulife-par-whole-life-a.png", "./img/cards/manulife-par-whole-life-a.t.jpg", "./img/cards/manulife-par-whole-life-b.png", "./img/cards/manulife-par-whole-life-b.t.jpg", "./img/cards/manulife-term-life-a.png", "./img/cards/manulife-term-life-a.t.jpg", "./img/cards/manulife-term-life-b.png", "./img/cards/manulife-term-life-b.t.jpg", "./img/cards/manulife-transfers-wire-a.png", "./img/cards/manulife-transfers-wire-a.t.jpg", "./img/cards/manulife-transfers-wire-b.png", "./img/cards/manulife-transfers-wire-b.t.jpg", "./img/cards/manulife-universal-life-a.png", "./img/cards/manulife-universal-life-a.t.jpg", "./img/cards/manulife-universal-life-b.png", "./img/cards/manulife-universal-life-b.t.jpg", "./img/cards/manulife-visa-cards-a.png", "./img/cards/manulife-visa-cards-a.t.jpg", "./img/cards/manulife-visa-cards-b.png", "./img/cards/manulife-visa-cards-b.t.jpg", "./img/cards/manulife-vitality-a.png", "./img/cards/manulife-vitality-a.t.jpg", "./img/cards/manulife-vitality-b.png", "./img/cards/manulife-vitality-b.t.jpg", "./img/cards/move-and-spend-money-a.png", "./img/cards/move-and-spend-money-a.t.jpg", "./img/cards/move-and-spend-money-b.png", "./img/cards/move-and-spend-money-b.t.jpg", "./img/cards/probate-by-province-a.png", "./img/cards/probate-by-province-a.t.jpg", "./img/cards/probate-by-province-b.png", "./img/cards/probate-by-province-b.t.jpg", "./img/cards/registered-accounts-at-death-a.png", "./img/cards/registered-accounts-at-death-a.t.jpg", "./img/cards/registered-accounts-at-death-b.png", "./img/cards/registered-accounts-at-death-b.t.jpg", "./index.html", "./products/manulife-advantage-account.html", "./products/manulife-critical-illness.html", "./products/manulife-disability.html", "./products/manulife-gic.html", "./products/manulife-health-dental.html", "./products/manulife-one.html", "./products/manulife-par-whole-life.html", "./products/manulife-term-life.html", "./products/manulife-transfers-wire.html", "./products/manulife-universal-life.html", "./products/manulife-visa-cards.html", "./products/manulife-vitality.html", "./robots.txt", "./search.json", "./sitemap.xml", "./style.css", "./tax/borrowing-interest-deductible.html", "./tax/charitable-giving-and-insurance.html", "./tax/corporate-owned-life-insurance.html", "./tax/interest-income-and-t5.html", "./tax/life-insurance-money-and-tax.html", "./tax/probate-by-province.html", "./tax/registered-accounts-at-death.html", "./vf/framework.css", "./vf/framework.js", "./workspace/index.html", "./manifest.webmanifest"];
 self.addEventListener('install', (e) => {
   e.waitUntil(caches.open(VERSION).then(async (c) => {

diff --git a/cards/manulife-gic-a/index.html b/cards/manulife-gic-a/index.html
@@ -29,7 +29,7 @@
 <section class="cover from-card" aria-label="页面封面"><img class="cover-bg" src="../../img/cards/manulife-gic-a.t.jpg" alt="" fetchpriority="high" decoding="async"><div class="wrap"><p class="crumb"><a href="../../index.html">首页</a> › <a href="../../cards/index.html">知识卡</a> › <a href="../../products/manulife-gic.html">宏利银行 GIC 定期存款</a></p><p class="eyebrow">知识卡</p><h1>1–5 年期 GIC 锁定利率 · 知识卡</h1><p class="lead">长期 GIC 先定期限，再看最低投资额与牌价。 出自「宏利银行 GIC 定期存款」。</p></div></section>
 <main id="main">
 
-<article class="card-detail"><figure class="cd-pic"><a href="../../img/cards/manulife-gic-a.png" download="manulife-gic-a.png" title="下载原图" aria-label="下载这张知识卡的原图 PNG"><img src="../../img/cards/manulife-gic-a.png" alt="1–5 年期 GIC 锁定利率；2026-09-15 核对牌价；1 年 3.00%、2 年 3.30%；3 年 3.35%、4 年 3.40%；5 年 3.65%；长期 GIC 最低投资额 $2,500；选按月付息需 $10,000；长期档大多不能提前取" width="1200" height="1600" decoding="async"></a></figure><div class="cd-text"><p class="eyebrow">知识卡 · 宏利银行 GIC 定期存款 · 第 1 / 2 张</p><h2>1–5 年期 GIC 锁定利率</h2><p class="lead">2026-09-15 核对牌价</p><b class="takeaway">长期 GIC 先定期限，再看最低投资额与牌价。</b><ul class="guide"><li><span>先看</span>先看最低投资额，再看要锁的期限和对应牌价。</li><li><span>易漏</span>TFSA 内长期 GIC 可以提前赎回，但要做市场价值调整（MVA）并扣费用回收，且须全额赎回。</li><li><span>下一步</span>去按对比，带期限和是否要提前赎回的问题找持牌专业人士。</li></ul><p class="btn-row"><a class="button primary" href="../../products/manulife-gic.html#card-manulife-gic-a">读这一节正文</a><a class="button" href="../../img/cards/manulife-gic-a.png" download="manulife-gic-a.png">下载原图 PNG</a><a class="button" href="../../cards/index.html">全部知识卡</a></p><nav class="pager" aria-label="翻页"><span><a href="../../cards/manulife-advantage-account-b/index.html">← 利息收入仍须申报</a></span><span><a href="../../cards/manulife-gic-b/index.html">非注册多年期要逐年报告 →</a></span></nav><p class="small">卡上每个字都出自本站正本（规则核对基准日 2026-09-16）；分享请连同导读一起发。论坛只放本页文字链接，不上传图片。</p></div></article>
+<article class="card-detail"><figure class="cd-pic"><a href="../../img/cards/manulife-gic-a.png" download="manulife-gic-a.png" title="下载原图" aria-label="下载这张知识卡的原图 PNG"><img src="../../img/cards/manulife-gic-a.png" alt="1–5 年期 GIC 锁定利率；非注册年付息 · 2026-09-26 牌价；1 年 3.35%、2 年 3.70%；3 年 3.80%、4 年 3.90%；5 年 4.05%；长期 GIC 最低投资额 $2,500；选按月付息需 $10,000；利率会变，签约时再确认" width="1200" height="1600" decoding="async"></a></figure><div class="cd-text"><p class="eyebrow">知识卡 · 宏利银行 GIC 定期存款 · 第 1 / 2 张</p><h2>1–5 年期 GIC 锁定利率</h2><p class="lead">非注册年付息 · 2026-09-26 牌价</p><b class="takeaway">长期 GIC 先定期限，再看最低投资额与牌价。</b><ul class="guide"><li><span>先看</span>先看最低投资额，再看要锁的期限和对应牌价。</li><li><span>易漏</span>TFSA 内长期 GIC 可以提前赎回，但要做市场价值调整（MVA）并扣费用回收，且须全额赎回。</li><li><span>下一步</span>去按对比，带期限和是否要提前赎回的问题找持牌专业人士。</li></ul><p class="btn-row"><a class="button primary" href="../../products/manulife-gic.html#card-manulife-gic-a">读这一节正文</a><a class="button" href="../../img/cards/manulife-gic-a.png" download="manulife-gic-a.png">下载原图 PNG</a><a class="button" href="../../cards/index.html">全部知识卡</a></p><nav class="pager" aria-label="翻页"><span><a href="../../cards/manulife-advantage-account-b/index.html">← 利息收入仍须申报</a></span><span><a href="../../cards/manulife-gic-b/index.html">非注册多年期要逐年报告 →</a></span></nav><p class="small">卡上每个字都出自本站正本（规则核对基准日 2026-09-16）；分享请连同导读一起发。论坛只放本页文字链接，不上传图片。</p></div></article>
 <section class="cd-others"><h2>同一页的其他卡</h2><div class="cd-strip"><a href="../../cards/manulife-gic-b/index.html"><img src="../../img/cards/manulife-gic-b.t.jpg" alt="非注册多年期要逐年报告" width="600" height="800" loading="lazy"><span>非注册多年期要逐年报告</span></a></div></section>
 
 <section class="pagefoot"><h2>事实来源</h2><div class="tbl"><table class="sources"><thead><tr><th>官方原文</th><th>核对日期</th></tr></thead><tbody><tr><td>卡上文字出自本站正本页面，正本页面底部列着官方原文与核对日期：<a href="https://www.manulifebank.ca/" rel="nofollow noopener">https://www.manulifebank.ca/</a></td><td>见各正本页</td></tr></tbody></table></div><p class="disclaimer">本页是公开资料的整理与对照，不是官方文件，也不构成针对你个人情况的保险、投资或税务建议。产品条款、利率与费用以机构当期官方文件为准；税务处理以主管机构原文与持牌专业意见为准。数字会变，看到本页请对一眼「核对日期」。</p></section>

diff --git a/products/manulife-one.html b/products/manulife-one.html
@@ -39,9 +39,9 @@
 <ul>
 <li>Manulife One 是一体化房贷与银行账户，把房贷与银行账户、短期储蓄、收入和其他负债合在一起，存入的每一笔收入或储蓄立即冲减债务。<a href="https://www.manulifebank.ca/personal-banking/mortgages/manulife-one.html">✅源</a></li>
 <li>准入门槛：购房首付不少于房价 20%，或转按／再融资时房屋净值不少于 20%。<a href="https://www.manulifebank.ca/personal-banking/mortgages/manulife-one.html">✅源</a></li>
-<li>Manulife One Base Rate 为 4.95%（2026-09-15 核对牌价，浮动）。<a href="https://www.manulifebank.ca/current-rates.html">✅源</a></li>
-<li>5 年封闭固定利率牌价 4.94%；新客户 Preferred 特惠 4.69% APR，限自住主要住所并满足 Preferred 结构要求（2026-09-14 牌价）。<a href="https://www.manulifebank.ca/current-rates.html">✅源</a></li>
-<li>其他固定期限：1 年 6.89%、2 年 6.34%、3 年 4.99%、4 年 5.29%、7 年 6.35%、10 年 6.69%（2026-09-15 核对牌价）。<a href="https://www.manulifebank.ca/current-rates.html">✅源</a></li>
+<li>Manulife One Base Rate 为 4.95%（2026-09-26 核对牌价，浮动）。<a href="https://www.manulifebank.ca/current-rates.html">✅源</a></li>
+<li>5 年封闭固定利率牌价 5.14%；新客户 Preferred 特惠 4.84% APR，限个人自住主要住所并满足 Preferred 结构要求及信贷审批；不是所有贷款均可获得的报价（官网标注 2026-09-25，2026-09-26 核对）。<a href="https://www.manulifebank.ca/current-rates.html">✅源</a></li>
+<li>其他固定期限：1 年 6.89%、2 年 6.34%、3 年 5.09%、4 年 5.29%、7 年 6.35%、10 年 6.69%（2026-09-26 核对牌价；利率可变更，签约时再确认）。<a href="https://www.manulifebank.ca/current-rates.html">✅源</a></li>
 <li>可循环使用的主账户额度上限为房产估值的 65%，65%–80% 之间的借款必须放在按期还款、还掉即注销的定期子账户里。<a href="https://www.manulifebank.ca/personal-banking/mortgages/manulife-one/discover-manulife-one/customize-your-mortgage.html">✅源</a></li>
 <li>最多可开 5 个定期子账户（term sub-account）和 15 个追踪子账户（tracking sub-account）。<a href="https://www.manulifebank.ca/content/dam/manulife-bank/en_ca/documents/personal-banking/mortgages/manulife-bank-manulife-one-client-guide-wm1033e.pdf">✅源</a></li>
 <li>Client Guide 举例用追踪子账户单独记录投资相关借款的利息，同时声明利息能否抵税取决于所得税法与个案。<a href="https://www.manulifebank.ca/content/dam/manulife-bank/en_ca/documents/personal-banking/mortgages/manulife-bank-manulife-one-client-guide-wm1033e.pdf">✅源</a></li>

diff --git a/compare/cash-advantage-vs-gic.html b/compare/cash-advantage-vs-gic.html
@@ -61,10 +61,10 @@
 <h2>定期存款：Manulife Bank GIC</h2>
 <p>Manulife Bank GIC 是银行定期存款：1–5 年期锁定利率、长期档大多不能提前取、受 CDIC 按类别保护；它和 Manulife 人寿发行的 GIA 不是同一种东西。</p>
 <ul>
-<li>非注册长期 GIC 年付息利率：1 年 3.00%、2 年 3.30%、3 年 3.35%、4 年 3.40%、5 年 3.65%（2026-09-15 核对牌价）。<a href="https://www.manulifebank.ca/current-rates.html">✅源</a></li>
+<li>非注册长期 GIC 年付息利率：1 年 3.35%、2 年 3.70%、3 年 3.80%、4 年 3.90%、5 年 4.05%（2026-09-26 核对牌价；利率可变更，签约时再确认）。<a href="https://www.manulifebank.ca/current-rates.html">✅源</a></li>
 <li>TFSA／RRSP／RRIF 长期 GIC 与非注册同档利率一致。<a href="https://www.manulifebank.ca/current-rates.html">✅源</a></li>
 <li>长期 GIC 最低投资额 $2,500，选按月付息需 $10,000。<a href="https://www.manulifebank.ca/current-rates.html">✅源</a></li>
-<li>短期 GIC 利率：30–59 天与 60–89 天 1.75%、90–179 天 1.90%、180–269 天 2.38%、270–364 天 2.50%。<a href="https://www.manulifebank.ca/personal-banking/investments/guaranteed-investment-certificate.html">✅源</a></li>
+<li>短期 GIC 利率：30–59 天与 60–89 天 1.75%、90–179 天 1.90%、180–269 天 2.45%、270–364 天 2.50%（2026-09-26 核对；以签约时利率为准）。<a href="https://www.manulifebank.ca/current-rates.html">✅源</a></li>
 <li>短期 GIC 最低投资额 $25,000。<a href="https://www.manulifebank.ca/personal-banking/investments/guaranteed-investment-certificate.html">✅源</a></li>
 <li>非注册、RRSP、RRIF 长期 GIC 为不可提前赎回，身故是到期前赎回的例外。<a href="https://www.manulifebank.ca/personal-banking/investments/guaranteed-investment-certificate.html">✅源</a></li>
 <li>TFSA 内长期 GIC 可以提前赎回，但要做市场价值调整（MVA）并扣费用回收，且须全额赎回。<a href="https://www.manulifebank.ca/personal-banking/investments/tax-free-savings-account.html">✅源</a></li>

diff --git a/index.html b/index.html
@@ -63,7 +63,7 @@
 <p>这几个数字有期限或会变，是最近一次回官方页核对的结果。看到别处引用它们，先对日期。</p>
 <ul>
 <li>活期王促销合计 3.00%（常规 1.50% 加促销 1.50%，都是浮动），开户窗口 2026-07-02 至 2026-10-30，只对净新增外部资金有效、合资格余额上限 $500,000。<a href="https://www.manulifebank.ca/current-rates.html">✅源</a>（2026-09-15 核对）</li>
-<li>非注册长期 GIC 年付息牌价：1 年 3.00%、5 年 3.65%；长期档最低投资额 $2,500。<a href="https://www.manulifebank.ca/current-rates.html">✅源</a>（2026-09-15 核对）</li>
+<li>GIC 牌价按期限和付息方式分别列示；最新核对值见<a href="products/manulife-gic.html">宏利银行 GIC 产品页的事实清单</a>，行动前再对照官方现行牌价。</li>
 <li>Manulife One Base Rate 4.95%，浮动。<a href="https://www.manulifebank.ca/current-rates.html">✅源</a>（2026-09-15 核对）</li>
 <li>Manulife Par 分红尺度利率自 2026-09-01 起维持 6.35%——它是计算分红的因素之一，不是保单回报率。<a href="https://www.manulife.com/ca/en/personal/support/insurance/manulife-participating-dividends">✅源</a>（2026-09-16 核对）</li>
 </ul>

diff --git a/README.md b/README.md
@@ -4,4 +4,4 @@
 
 本仓只放**产物**（静态页面），由私库 `veryvisa/business` 的 `bin/site_publish.py` 生成并推送；
 内容修改一律回私库，这里不接受 PR。内容为公开资料整理，不是官方文件，也不构成个案建议。
-发布版本：`4eeb7bec6d3d`。
+发布版本：`397557b4aea6`。
